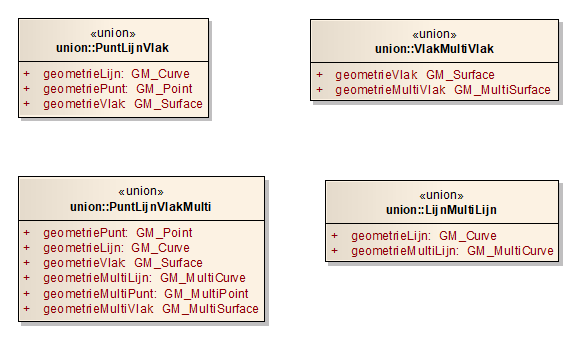
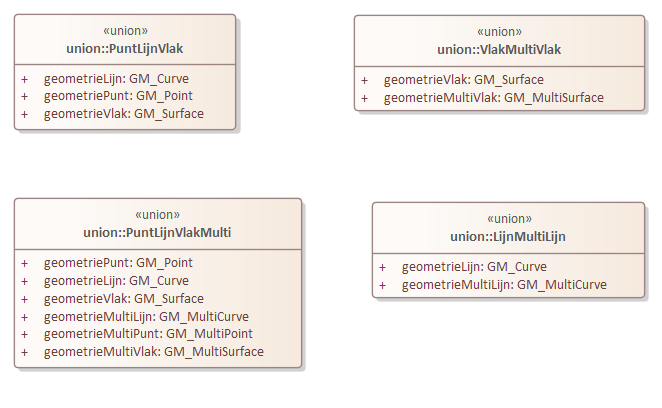
H7 update figuur

diff --git a/section_007.md b/section_007.md
@@ -1,6 +1,6 @@
 # Geometrietypen {#1139BF9A}
 
 Voor verschillende klassen in de voorafgaande diagrammen is het mogelijk om verschillende geometrietypen te gebruiken. Om strikt vast te leggen wat deze geometrietypen zijn en dat er bij een specifiek object maar één geometrietype tegelijk gebruikt mag worden is er in die gevallen een samengesteld geometrie datatype gecreëerd. Doormiddel van het UML stereotype &lt;union&gt; wordt afgedwongen dat één van de voorkomens van de attributen moet worden toegepast. In GML wordt dit vertaald naar een ‘Choice’ optie. Voor de verschillende mogelijkheden voor het toekennen van geometrie aan de IMRO objecten zijn de volgende volgende klassen van het stereotype Union gecreëerd.<br/>
-<figure><img src='media/image14.png' alt='Afbeelding met tekst, schermopname, Lettertype, visitekaartje' style='width: 100%;'></img>
+<figure><img src='media/geometrietypen.png' alt='Afbeelding met tekst, schermopname, Lettertype, visitekaartje' style='width: 100%;'></img>
 <figcaption>Datatypen gecreerd om de keuze tussen verschillende geometrietypen mogelijk te maken</figcaption></figure>
 
